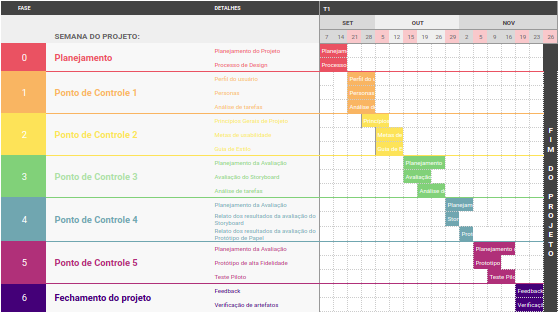
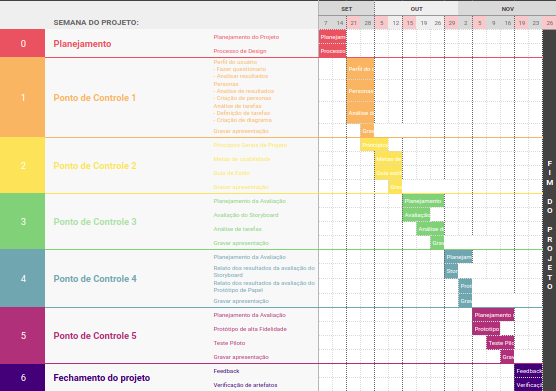
Atualiza arquivo de planejamento com cronograma

diff --git a/docs/planejamento.md b/docs/planejamento.md
@@ -4,9 +4,52 @@ A seguir se encontram as informações a cerca do planejamento do projeto.
 
 ## Cronograma 
 
-O cronograma pode ou não sofrer mudanças ao longo do projeto. Podemos visualizar o cronograma do projeto a seguir: 
+O cronograma pode ou não sofrer mudanças ao longo do projeto. Ele é divido em cinco pontos de controle, um planejamento e uma finalização. Podemos visualizar o cronograma do projeto a seguir: 
 
 ![Cronograma](/img/cronograma.png)
+
+
+Para melhor visualização dividimos a imagem de partes. 
+
+### Planejamento
+
+![Cronograma](/img/cronograma_0.png)
+
+
+### Ponto de controle 1
+
+
+![Cronograma](/img/cronograma_1.png)
+
+
+### Ponto de controle 2
+
+
+![Cronograma](/img/cronograma_2.png)
+
+
+### Ponto de controle 3
+
+
+![Cronograma](/img/cronograma_3.png)
+
+
+### Ponto de controle 4
+
+
+![Cronograma](/img/cronograma_4.png)
+
+
+### Ponto de controle 5
+
+
+![Cronograma](/img/cronograma_5.png)
+
+
+### Fechamento do projeto
+
+
+![Cronograma](/img/cronograma_6.png)
 
 
 ## Ferramentas
@@ -66,3 +109,4 @@ Adotamos o ciclo de vida da Engenharia de Usabilidade de Mayhew, essa organizaç
 |20/09/2020|0.3|Adicionando as ferramentas do projeto|Gabrielle Ribeiro Gomes|
 |20/09/2020|0.4|Adicionando a apresentação do planejamento|Luiz Gustavo Dias Paes Pinheiro|
 |20/09/2020|0.5|Adicionando a lista de sites avaliados|Aline Helena Lermen|
+|02/10/2020|0.6|Atualiza o cronograma do projeto|Giovanna Bottino|
